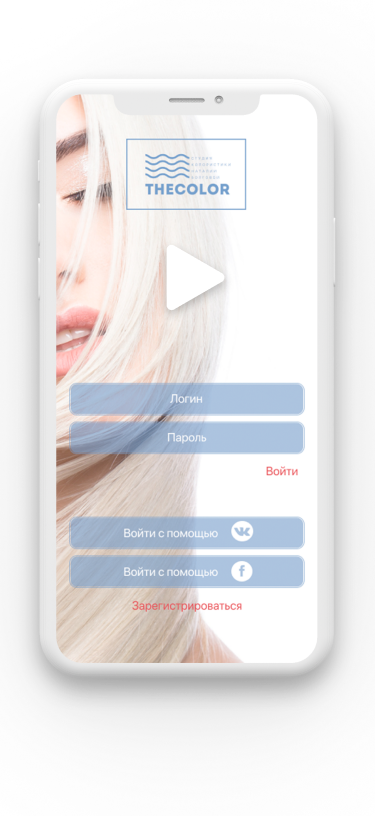
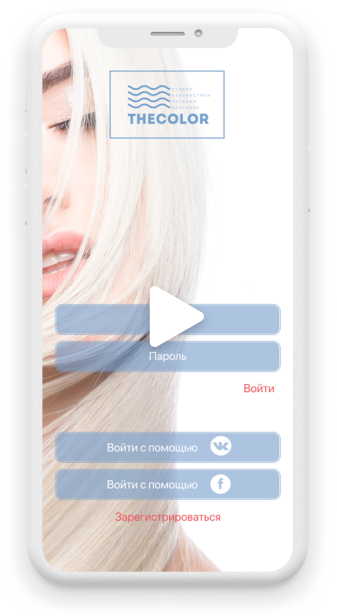
v 1.1
*new buttons

diff --git a/src/index.html b/src/index.html
@@ -5,6 +5,22 @@
     <meta name="viewport" content="width=device-width, initial-scale=1.0" />
     <link rel="stylesheet" href="./css/main.min.css" />
     <title>Document</title>
+    <!-- Marquiz script start -->
+    <script
+      src="//script.marquiz.ru/v1.js"
+      type="application/javascript"
+    ></script>
+    <script>
+      document.addEventListener("DOMContentLoaded", function() {
+        Marquiz.init({
+          id: "5e4fdd2312e3d30044fb0218",
+          autoOpen: false,
+          autoOpenFreq: "once",
+          openOnExit: false
+        });
+      });
+    </script>
+    <!-- Marquiz script end -->
   </head>
   <body>
     <header class="page-header">
@@ -100,7 +116,7 @@
             </svg>
           </a>
           <a
-            href="https://www.instagram.com/webiraydesign/"
+            href="https://www.instagram.com/webiraylab/"
             class="contacts-item"
             target="_blank"
           >
@@ -206,8 +222,11 @@
             >
             в год
           </h2>
-          <button class="page-main-1__button">
-            Хочу такое приложение
+          <button class="page-main-1__button page-main-1__button--order">
+            <a href="#popup:marquiz_5e4fdd2312e3d30044fb0218">Заказать</a>
+          </button>
+          <button class="page-main-1__button page-main-1__button--video">
+            <a href="#popup:marquiz_5e4fdd2312e3d30044fb0218">Смотреть</a>
           </button>
           <div class="page-main-1__container">
             <a href="#" class="page-main-1__appstore" role="button"></a>
@@ -268,17 +287,19 @@
         </div>
 
         <div class="page-main-2__switch-wrapper">
-          <span
+          <label
+            for="checkbox"
             class="switch-wrapper__text switch-wrapper__text--before js-first"
-            >преимущества</span
+            >преимущества</label
           >
           <label class="theme-switch" for="checkbox">
             <input type="checkbox" class="theme-switch__input" id="checkbox" />
             <div class="slider round"></div>
           </label>
-          <span
+          <label
+            for="checkbox"
             class="switch-wrapper__text switch-wrapper__text--after js-second"
-            >стоимость</span
+            >стоимость</label
           >
         </div>
       </section>

diff --git a/src/scss/partials/_mobile/_main-section-1.scss b/src/scss/partials/_mobile/_main-section-1.scss
@@ -1,10 +1,29 @@
+main {
+  position: relative;
+  overflow: hidden;
+
+  &::after {
+    position: absolute;
+    content: "";
+    width: 2435px;
+    height: 1320px;
+    top: 430px;
+    left: 50%;
+    transform: translateX(-50%);
+    background: url("../img/bg/bg-5.png") no-repeat;
+    z-index: 5;
+  }
+}
+
 .page-main-1 {
+  position: relative;
   padding: 0 15px;
   margin: 0 auto -5px;
   color: $text-dark;
   max-width: 375px;
-  background: url("../img/bg/phone-2.png") no-repeat -100px 77px;
-  background-size: 125%;
+  background: url("../img/bg/phone.png") no-repeat center 130px;
+  background-size: 97%;
+  z-index: 8;
 }
 
 .page-main-1__header {
@@ -20,18 +39,39 @@
 
 .page-main-1__button {
   position: fixed;
-  bottom: 15px;
   width: 345px;
   height: 60px;
-  background: linear-gradient(90deg, #8e73ea 0%, #7a7af1 58.85%, #6983f5 100%);
   border: none;
   border-radius: 10px;
   font-weight: 500;
   font-size: 18px;
   line-height: 20px;
-  color: $text-white;
-  z-index: 10;
   cursor: pointer;
+
+  & a {
+    color: $text-white;
+  }
+}
+
+.page-main-1__button--order {
+  bottom: 85px;
+  background: url("../img/bg/bg-6.svg") no-repeat right 0,
+    linear-gradient(90deg, #8e73ea 0%, #7a7af1 58.85%, #6983f5 100%);
+
+  & a {
+    color: $text-white;
+  }
+}
+
+.page-main-1__button--video {
+  bottom: 15px;
+  background: url("../img/bg/bg-8.svg") no-repeat 285px 10px,
+    rgba(255, 255, 255, 0.61);
+  backdrop-filter: blur(15px);
+
+  & a {
+    color: $bg-color-2;
+  }
 }
 
 .page-main-1__container {

diff --git a/src/scss/partials/_desktop/_main-section-1.scss b/src/scss/partials/_desktop/_main-section-1.scss
@@ -1,34 +1,28 @@
 @media only screen and (min-width: 1440px) {
   main {
-    position: relative;
-
     &::before {
       position: absolute;
-      content: '';
-      width: 300px;
-      height: 300px;
-      top: -80px;
-      right: 70px;
-      background: url('../img/bg/bg-4.png') no-repeat;
+      content: "";
+      width: 1650px;
+      height: 1940px;
+      top: -70px;
+      left: 50%;
+      transform: translateX(-50%);
+      background: url("../img/bg/bg-4.png") no-repeat;
+      margin-left: 330px;
       z-index: 5;
     }
     &::after {
-      position: absolute;
-      content: '';
-      width: 1440px;
-      height: 1320px;
-      top: -50px;
-      right: 10px;
-      background: url('../img/bg/bg-5.png') no-repeat 10px 10px;
-      z-index: 5;
+      width: 1750px;
+      top: -40px;
     }
   }
 
   .page-main-1 {
     position: relative;
     max-width: 1440px;
-    background: url('../img/bg/phone.png') no-repeat 885px -35px;
-    background-size: 25%;
+    background: url("../img/bg/phone.png") no-repeat 900px 25px;
+    background-size: 23.5%;
     z-index: 10;
   }
 
@@ -62,15 +56,5 @@
     line-height: 45px;
     letter-spacing: 0.05em;
     margin-left: 235px;
-
-    &::after {
-      position: absolute;
-      content: '';
-      width: 80px;
-      height: 60px;
-      top: 0px;
-      left: 540px;
-      background: url('../img/bg/bg-6.png') no-repeat;
-    }
   }
 }

diff --git a/src/scss/partials/_desktop/_main-section-2.scss b/src/scss/partials/_desktop/_main-section-2.scss
@@ -2,8 +2,12 @@
   .page-main-2 {
     position: relative;
     height: 1085px;
-    max-width: 1440px;
-    background: url('../img/bg/bg-7.png') no-repeat 220px 670px;
+    max-width: 2000px;
+    top: 10px;
+    left: 50%;
+    transform: translateX(-50%);
+
+    background: none;
     padding-top: 70px;
     z-index: 10;
   }
@@ -32,25 +36,21 @@
     }
 
     &:nth-child(2) {
-      background-image: url('../img/icons/feature-2-desk.svg');
       padding-right: 100px;
     }
 
     &:nth-child(3) {
       padding-right: 100px;
+      margin-bottom: 100px;
     }
 
     &:nth-child(4) {
-      background-image: url('../img/icons/feature-4-desk.svg');
-      background-size: 40%;
-      padding-left: 140px;
-      margin: 45px 0 15px 315px;
+      padding-left: 100px;
+      margin: 45px 0 55px 315px;
     }
 
     &:nth-child(5) {
-      background-image: url('../img/icons/feature-5-desk.svg');
-      background-size: 40%;
-      padding-left: 140px;
+      padding-left: 100px;
       margin-bottom: 0;
       margin-left: 315px;
     }

diff --git a/src/scss/partials/_tablet/_main-section-2.scss b/src/scss/partials/_tablet/_main-section-2.scss
@@ -1,8 +1,7 @@
 @media only screen and (min-width: 768px) {
   .page-main-2 {
     height: 719px;
-    max-width: 768px;
-    background: url('../img/bg/bg-2.png') no-repeat center -390px;
+    max-width: 1500px;
     padding-top: 55px;
   }
 
@@ -19,7 +18,7 @@
     flex-wrap: wrap;
     width: 708px;
     height: 458px;
-    background: $text-white url('../img/bg/bg-3-alt.png') no-repeat center -9px;
+    background: $text-white url("../img/bg/bg-3-alt.png") no-repeat center -9px;
     background-size: 103%;
     box-shadow: inset 0 0 4px 4px rgba(255, 255, 255, 0.5),
       0px 4px 4px rgba(0, 0, 0, 0.25);

diff --git a/src/scss/partials/_tablet/_main-section-1.scss b/src/scss/partials/_tablet/_main-section-1.scss
@@ -1,9 +1,16 @@
 @media only screen and (min-width: 768px) {
+  main {
+    &::after {
+      width: 2140px;
+      top: 570px;
+    }
+  }
+
   .page-main-1 {
     display: flex;
     max-width: 768px;
-    background: url("../img/bg/phone.png") no-repeat right 26px;
-    background-size: 51%;
+    background: url("../img/bg/phone.png") no-repeat right 70px;
+    background-size: 49.5%;
   }
 
   .page-main-1__header {

diff --git a/src/scss/partials/_mobile/_main-section-2.scss b/src/scss/partials/_mobile/_main-section-2.scss
@@ -1,11 +1,13 @@
 .page-main-2 {
-  height: 630px;
+  position: relative;
+  height: 730px;
   max-width: 375px;
-  background: url("../img/bg/bg-1.svg") no-repeat center -390px;
+  // background: url("../img/bg/bg-1.svg") no-repeat center -390px;
   padding-top: 55px;
   overflow: hidden;
   color: $text-dark;
   margin: 0 auto;
+  z-index: 7;
 }
 
 .page-main-2__container {

diff --git a/src/scss/partials/_mobile/_switcher.scss b/src/scss/partials/_mobile/_switcher.scss
@@ -38,7 +38,7 @@
     #ffffff 20.74%,
     #d1d3d4 91.67%
   );
-  content: '';
+  content: "";
   width: 18px;
   height: 18px;
   position: absolute;
@@ -52,6 +52,7 @@
   line-height: 20px;
   letter-spacing: -0.05em;
   transition: color 0.4s ease-in-out;
+  cursor: pointer;
 }
 
 .switch-wrapper__text--before {

diff --git a/src/scss/partials/_desktop/_header.scss b/src/scss/partials/_desktop/_header.scss
@@ -1,10 +1,12 @@
 @media only screen and (min-width: 1440px) {
   body {
-    max-width: 1440px;
+    max-width: 2000px;
   }
 
   .page-header {
     padding: 15px 100px;
+    max-width: 1440px;
+    margin: 0 auto;
   }
 
   .page-header__logo {

diff --git a/src/scss/partials/_tablet/_header-contacts.scss b/src/scss/partials/_tablet/_header-contacts.scss
@@ -19,7 +19,7 @@
   transition-duration: 0.9s, 0.9s, 0.1s;
   transition-delay: 0s, 0s, 0.9s;
   transition-timing-function: linear, linear, linear;
-  z-index: 6;
+  z-index: 9;
 }
 
 .btn-wrapper .contacts-container.active {
